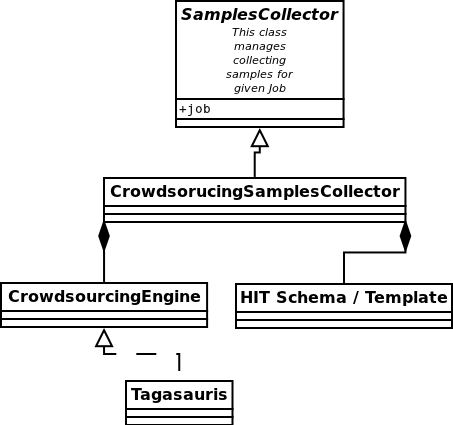
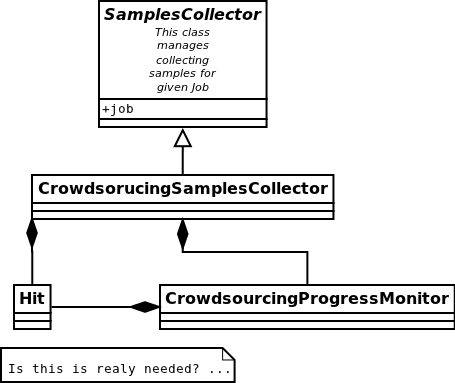
Update in sample collector

Changed region(s): [[0.0, 0.0, 1.0, 0.8616], [0.0, 0.8903, 0.5254, 1.0]]

diff --git a/docs/components.rst b/docs/components.rst
@@ -371,6 +371,9 @@ This package provides tools that we will use in few parts of this system
 .. image:: crowdsourcing_package.png
 
 
+**CrowdsourcingProgressMonitor** sends events about any progress.
+
+
 SamplesQualityEstimation
 ========================
 
